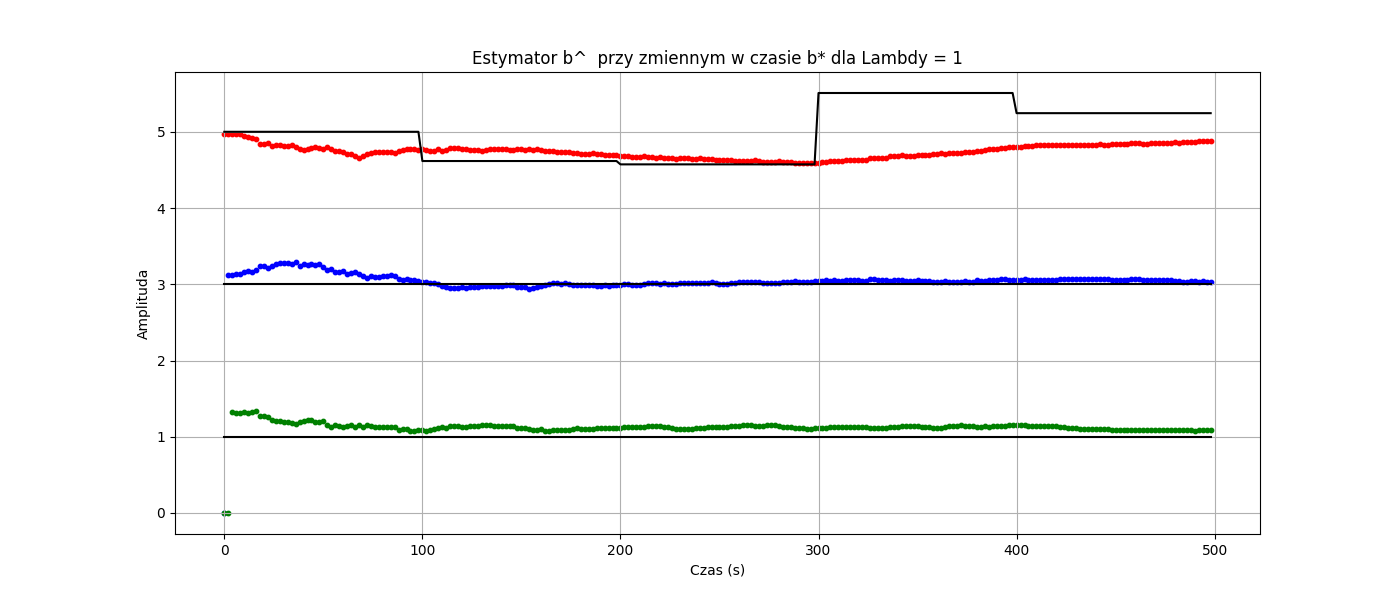
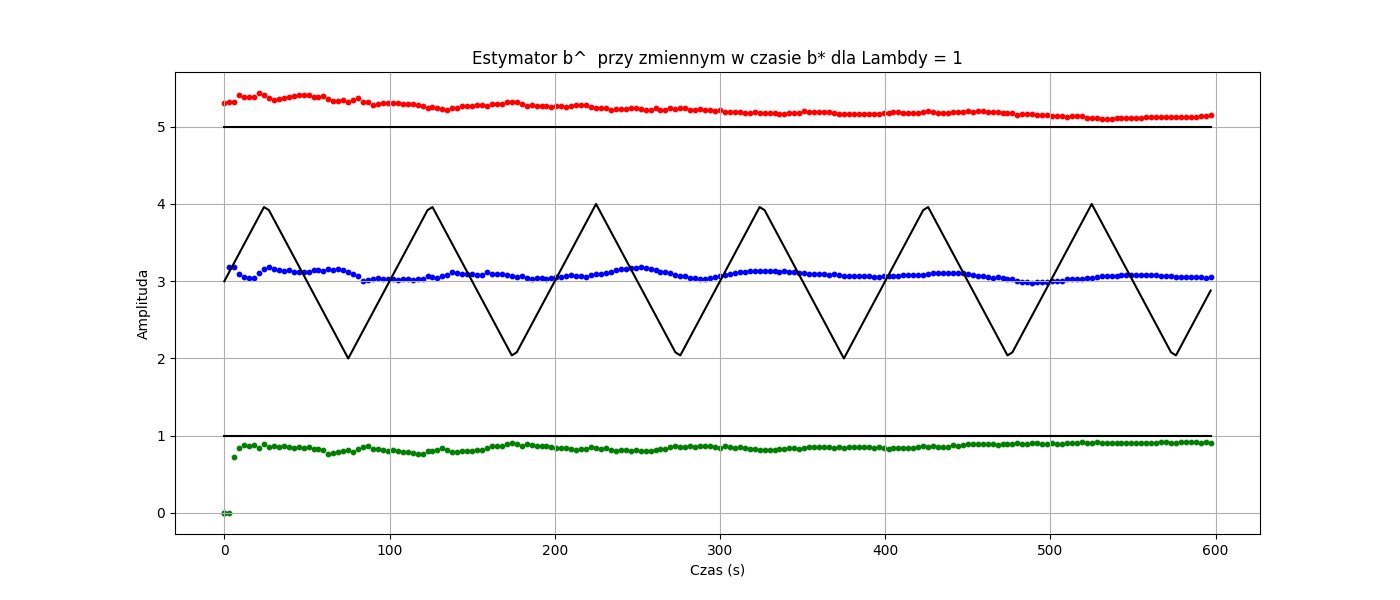
part II b changed

diff --git a/adaptacyjne/projekt2/wave.py b/adaptacyjne/projekt2/wave.py
@@ -7,8 +7,9 @@ from matplotlib import cm
 C = 0.7 # 
 images_folder = "images_test"
 
-def simulation2(N, b_true, Lambda):
-    B_true = np.zeros((N,3))
+# B_changed to funckja zmiennego b_true[1]
+def simulation2(t, b_true, B_changed, Lambda):
+    N = len(t)
     P_k = np.array([[100, 0, 0],
                     [0, 100, 0],
                     [0, 0, 100]])
@@ -25,14 +26,15 @@ def simulation2(N, b_true, Lambda):
     noise = [C *(random.random() + random.random() - 1) for _ in range(N)]
     # Tworzenie danych przed pętlą 
     # Dla [0]
+    v_wanted = (np.sin(2*np.pi/3 * 0) + 1.5)
     u_calculated = np.zeros(N)
-    u_calculated[0] = (np.sin(2*np.pi/3 * 0) + 1.5)
+    u_calculated[0] = v_wanted
     Phi = np.array([[u_calculated[0]],
                     [0],
                     [0]])
+    b_true[1] = B_changed[0]
     V_true[0] = b_true[0]*u_calculated[0]
     y_true[0] = V_true[0]  + noise[0]
-    B_true[0] = b_true
     new_P_k = 1/Lambda * (P_k - (np.dot(np.dot(np.dot(P_k,Phi),Phi.T),P_k))/ (Lambda + np.dot(np.dot(Phi.T, P_k),Phi)))
     P_k = new_P_k
 
@@ -42,14 +44,14 @@ def simulation2(N, b_true, Lambda):
     b_estimated[:,0] = (B_estimated + (y_true[0] - np.dot(Phi.T, B_estimated)) * np.dot(P_k,Phi)).reshape((3,)) 
 
     # DLa [1]
-    u_calculated[1] = (np.sin(2*np.pi/3 * 1) + 1.5)/b_estimated[0, 0]
+    v_wanted = (np.sin(2*np.pi/3 * 1) + 1.5)
+    u_calculated[1] = v_wanted/b_estimated[0, 0]
     Phi = np.array([[u_calculated[1]],
                     [u_calculated[0]],
                     [0]])
-
+    b_true[1] = B_changed[1]
     V_true[1] = b_true[0]*u_calculated[1] + b_true[1]*u_calculated[0] 
     y_true[1] =  V_true[1] + noise[1]
-    B_true[1] = b_true
     new_P_k = 1/Lambda * (P_k - (np.dot(np.dot(np.dot(P_k,Phi),Phi.T),P_k))/ (Lambda + np.dot(np.dot(Phi.T, P_k),Phi)))
     P_k = new_P_k
 
@@ -60,12 +62,12 @@ def simulation2(N, b_true, Lambda):
 
     for k in range(2, N):
         # Do zmiany b* 
-        if(k % (N/5) == 0):
-            # b_true = [b_true[0] + 1, b_true[1] + 1, b_true[2] + 1
-            b_true[0] = B_true[0][0] +  C *(random.random() + random.random() - 1)
-        B_true[k] = b_true
+        b_true[1] = B_changed[k]
             
-        u_calculated[k] = ((np.sin(2*np.pi/3 * k) + 1.5) -  (b_estimated[1, k-1]* u_calculated[k-1] + b_estimated[2, k-1]*u_calculated[k-2]))/b_estimated[0, k-1]
+        # Dla sygnału trójkatnego:
+        # v_wanted = 
+        v_wanted = (np.sin(2*np.pi/3 * k) + 1.5)
+        u_calculated[k] = (v_wanted -(b_estimated[1, k-1]* u_calculated[k-1] + b_estimated[2, k-1]*u_calculated[k-2]))/b_estimated[0, k-1]
         Phi = np.array([[u_calculated[k]],
                         [u_calculated[k-1]],
                         [u_calculated[k-2]]])
@@ -89,10 +91,10 @@ def simulation2(N, b_true, Lambda):
 
     # print(f"B true = {B_true}")
     print(f"B2 = {b_estimated[:,49]}")    
-    return V_true, V_estimated, y_true, y_estimated, b_estimated, B_true
+    return V_true, V_estimated, y_true, y_estimated, b_estimated
 
-def image2(t, b_true, Lambda):
-    V_true, V_estimated, y_true, y_estimated, b_estimated, B_true = simulation2(len(t), b_true, Lambda)
+def image2(t, b_true, B_changed, Lambda):
+    V_true, V_estimated, y_true, y_estimated, b_estimated= simulation2(t, b_true, B_changed, Lambda)
     fig = plt.figure(figsize=(14, 6))
     ax = fig.add_subplot(111)
     ax.plot(t, V_true, c='b', label="Fala na wyjściu -> prawdziwa") 
@@ -111,11 +113,11 @@ def image2(t, b_true, Lambda):
     fig_est = plt.figure(figsize=(14, 6))
     ax_est = fig_est.add_subplot(111)
     ax_est.scatter(t, b_estimated[0], c='r', marker="o", s=10, label="Estymowane b0 od Lambdy")  
-    ax_est.plot(t, B_true[:,0], c='black') 
+    ax_est.plot(t, [b_true[0] for _ in range(len(t))], c='black') 
     ax_est.scatter(t, b_estimated[1], c='b', marker="o", s=10, label="Estymowane b1 od Lambdy")
-    ax_est.plot(t, B_true[:,1], c='black') 
+    ax_est.plot(t, B_changed, c='black') 
     ax_est.scatter(t, b_estimated[2], c='g', marker="o", s=10, label="Estymowane b2 od Lambdy") 
-    ax_est.plot(t, B_true[:,2], c='black') 
+    ax_est.plot(t, [b_true[2] for _ in range(len(t))], c='black') 
     ax_est.set_title(f'Estymator b^  przy zmiennym w czasie b* dla Lambdy = {Lambda}')
     # ax_est.legend(loc='')
     ax_est.set_xlabel('Czas (s)')
@@ -235,20 +237,26 @@ def image(t, b_true, Lambda):
 
 
 def main():
-    duration = 500.0  # Duration of the u_k(seconds)
-    N = 250 # Amount of samples
+    # triangular function parameters 
+    frequency = 0.01  # Frequency of the signal (cycles per second)
+    period = 1 / frequency
+    amplitude = 1.0  # Amplitude of the signal
+
+    duration = 600.0  # Duration of the u_k(seconds)
+    N = 200 # Amount of samples
     t = np.linspace(0, duration, N, endpoint=False) # <class 'numpy.ndarray'>
     # u_k = np.random.uniform(0, 3,  N)
-
     Lambda = [1, 0.99, 0.95, 0.9, 0.8]
     b_true = [5, 3, 1]
     
+    B_true = ((4 * amplitude) / period) * np.abs(((t - (period * 0.25))%period) - (period * 0.5)) - amplitude + b_true[1]
+
     # Part I
     image(t, b_true, Lambda[0])
 
     # Part II
     for i in range(len(Lambda)):
-        image2(t, b_true, Lambda[i])
+        image2(t, b_true, B_true, Lambda[i])
     
 if __name__ == "__main__":
     main()
